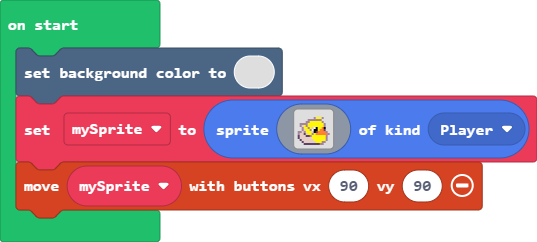
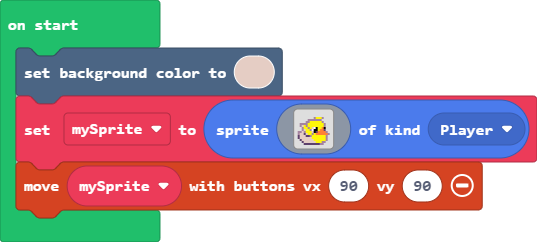
Made the background more vibrant

Changed region(s): [[0.4171, 0.2314, 0.5065, 0.376]]

diff --git a/main.ts b/main.ts
@@ -1,4 +1,4 @@
-scene.setBackgroundColor(0)
+scene.setBackgroundColor(13)
 let mySprite = sprites.create(img`
     . . . . . . . . . . . . . . . . 
     . . . . . . . . . . . . . . . . 
